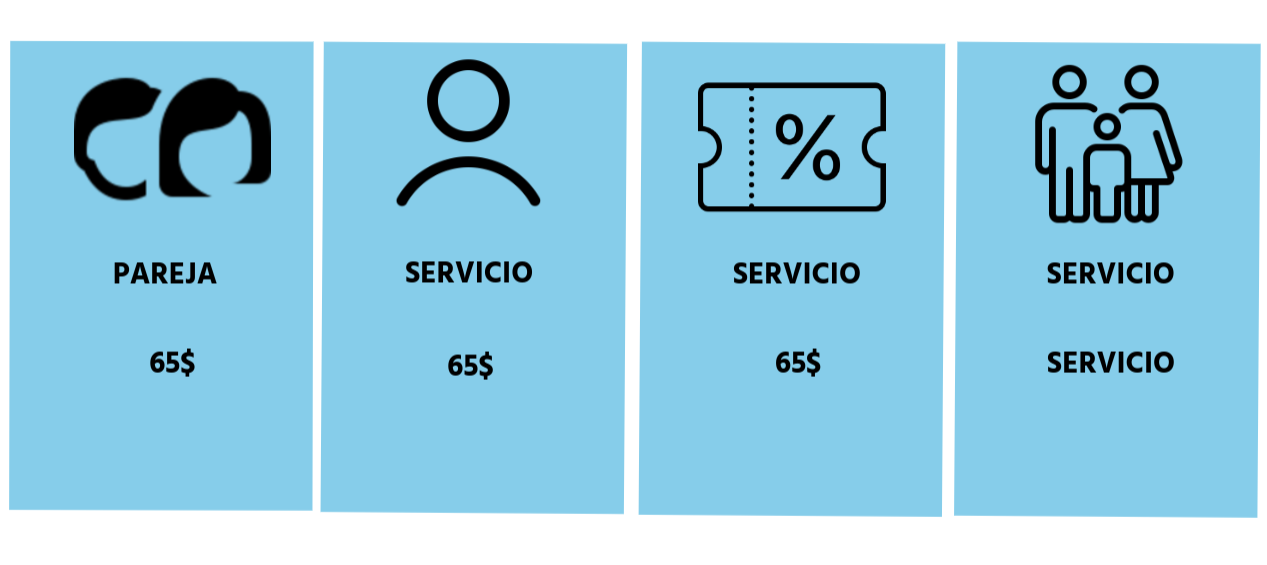
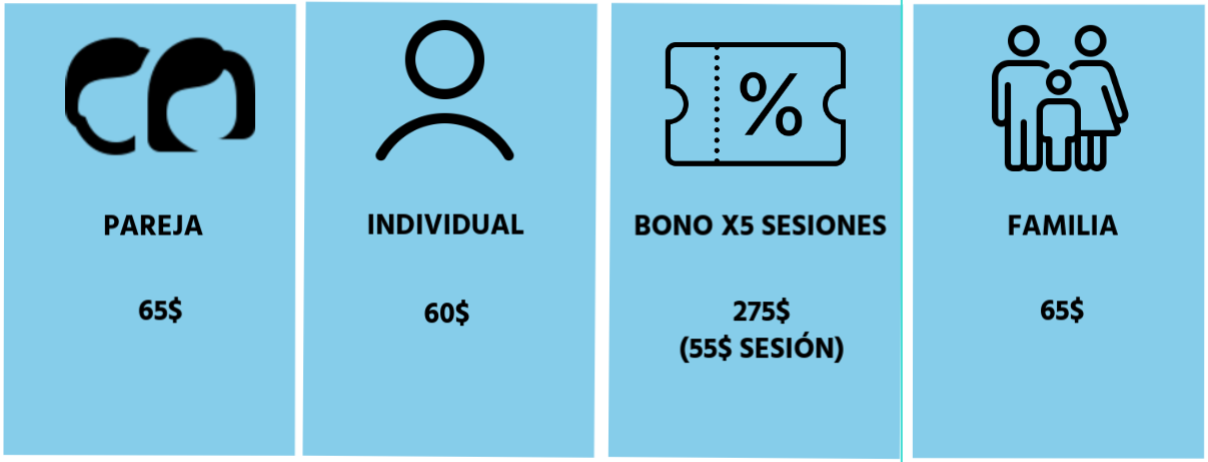
updated tarifas image, put new section(sobre mí), centered tarifas image and changed the order of the sections.

diff --git a/index.html b/index.html
@@ -25,6 +25,8 @@
         <!-- <a href="#">QUIÉN SOY</a> -->
         <a href="#pricing">Tarifas</a>
         <a href="#reviews">Testimonios</a>
+        <a href="#about">Sobre mí</a>
+
         <!-- <a href="#">CONTACTO</a> -->
         <!-- <a href="#">PEDIR CITA</a> -->
     </div>
@@ -52,13 +54,41 @@
 
 <section>
     <div class="bar">
-        <a name="pricing">Tarifas</a>
+        <a name="about">SOBRE MÍ</a>
     </div>
-    <div class="pricing">
-        <img title="Tarifas" src="/img/pricing.png" />
+    <div class="about">
+        <p> Hola! Qué ilusión que estés aquí queriendo saber un poco más sobre mi.
+Me llamo Marina y desde bastante pronto descubrí lo que significaba ser psicóloga y me
+enamoré de este trabajo. A día de hoy puedo decir que tengo uno de mis sueños
+cumplidos, ser psicóloga y poder ayudar desde aquí y acompañar a muchas personas en
+sus procesos.</p>
+<p>
+Trabajo desde una perspectiva integradora especializándome en trauma y apego. ¿Que
+qué significa esto? Significa que trabajaremos por dos vías, por un lado, veremos cuáles
+son los síntomas que te han traído a consulta y que se encuentran en la punta del
+iceberg, como puede ser la ansiedad, el estar más bajo de ánimo, problemas de sueño,
+comida… Tratándolos como la alarma de “algo” que está por debajo y que está
+haciendo que todo esto se dé, aprendiendo técnicas y herramientas, y por otro lado, las
+heridas que se nos pueden haber quedado sin darnos cuenta sin curar en la base del
+iceberg (heridas de rechazo, de abandono...).
+</p>
+<p>
+Si esto te resuena y crees que encaja con la terapia que estás buscando no dudes en
+ponerte en contacto conmigo, estoy deseando acompañarte en este proceso y ayudarte a
+limpiar esas heriditas que se han quedado por el camino sin curar y sobre todo hacer que
+vuelvas a sentirte regulada y conectada en tu día a día.
+</p>
     </div>
 </section>
 
+<section>
+    <div class="bar">
+        <a name="pricing">Tarifas</a>
+    </div>
+    <div class="pricing">
+        <img title="Tarifas" src="/img/plantillatarifas8.png" />
+    </div>
+</section>
 
 <section>
     <div class="bar">

diff --git a/css/main.css b/css/main.css
@@ -98,6 +98,7 @@ main .body {
     text-align: justify;
     text-justify: auto;
 }
+
 @media only screen and (min-width: 1100px) {
     main {
         padding: 6em 0;
@@ -105,22 +106,26 @@ main .body {
     main div.title { margin-bottom: 4em; }
 }
 
+.about {padding: 1em;margin-bottom: 2em;}
 
 main, div.pricing {
-    margin-bottom: 2em;
     text-align: center;
+    top: 1em;
 }
 
 header > div:first-child,
 header > nav,
 main > div,
 div.reviews > div,
-.contact > div, .contact nav
+.contact > div, .contact nav,
+div.about
  {
     margin-left: 2em;
     margin-right: 3em;
 }
-
+div.pricing {
+    margin-bottom: 2em;
+}
 div.pricing img {
     background-color: #fff;
     border: 1px solid transparent;
